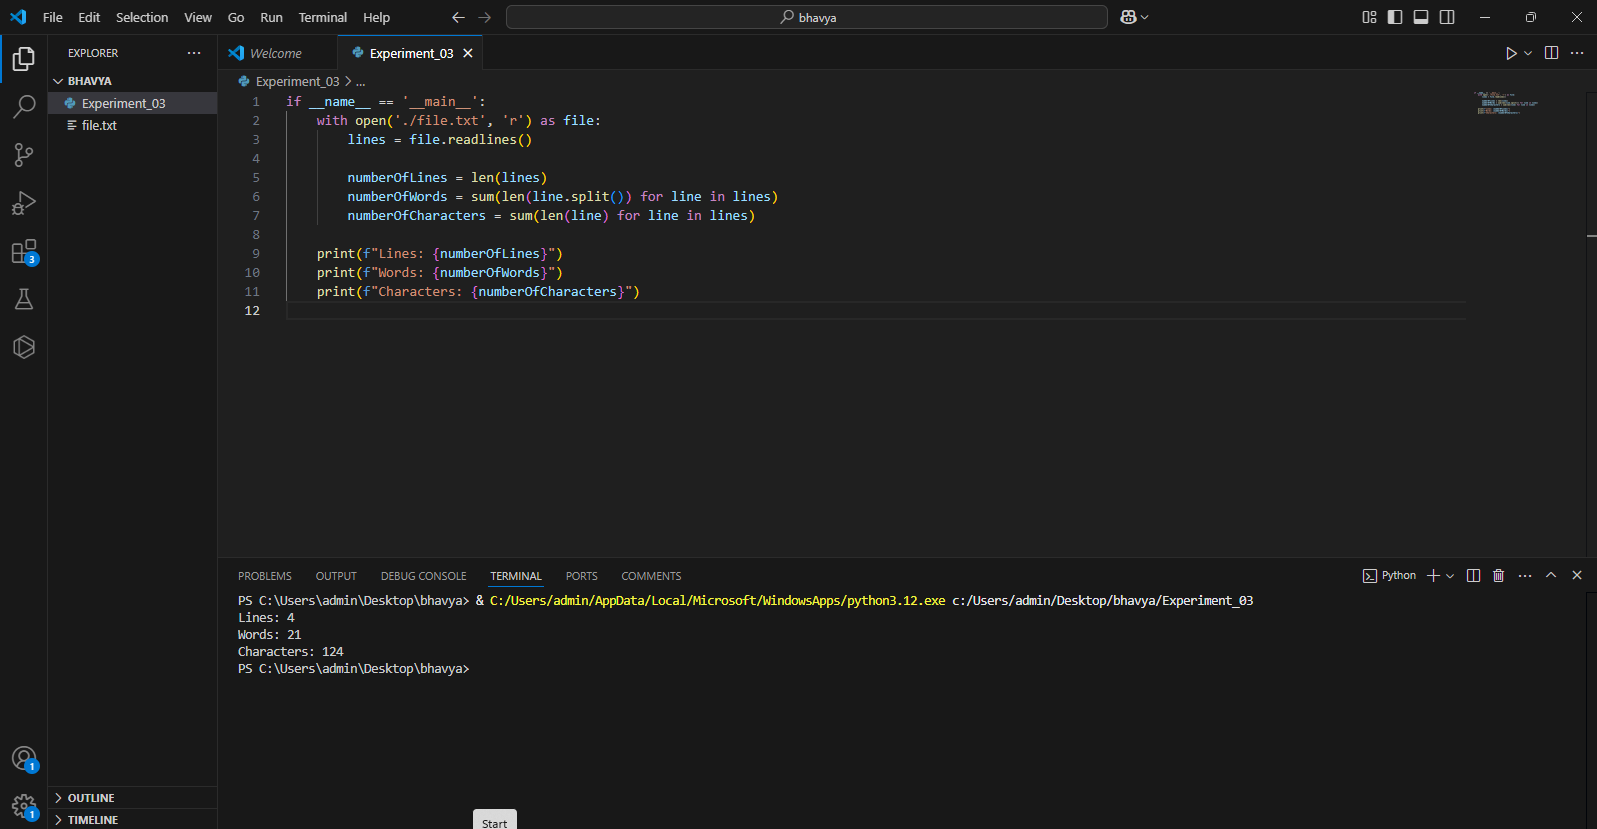
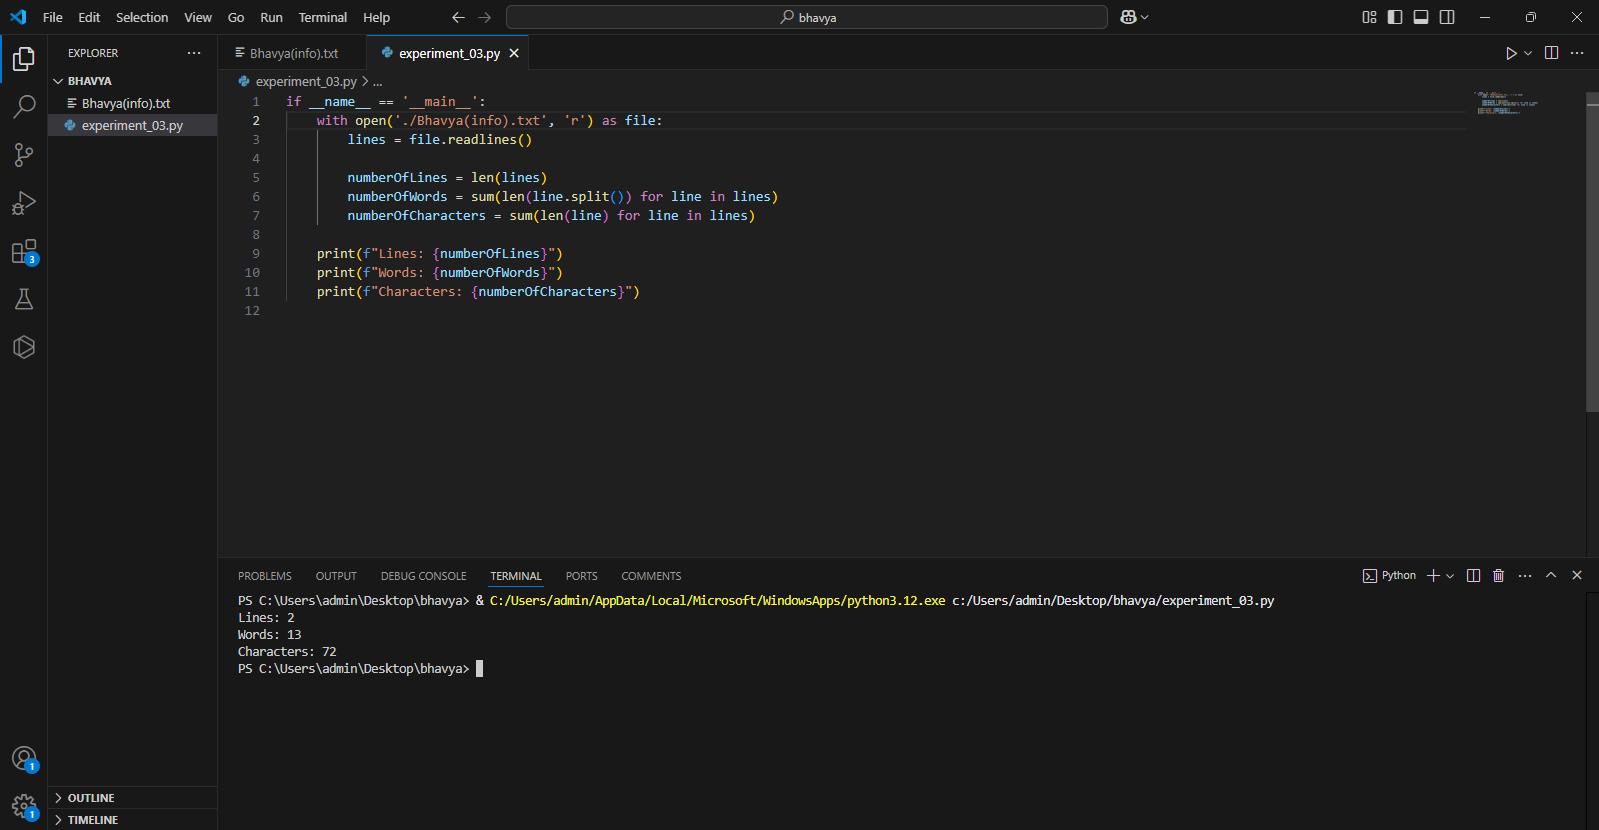
No of Characters counted

diff --git a/Experiment_03/experiment_03.py b/Experiment_03/experiment_03.py
@@ -1,5 +1,5 @@
 if __name__ == '__main__':
-    with open('./file.txt', 'r') as file:
+    with open('./Bhavya(info).txt', 'r') as file:
         lines = file.readlines()
 
         numberOfLines = len(lines)
